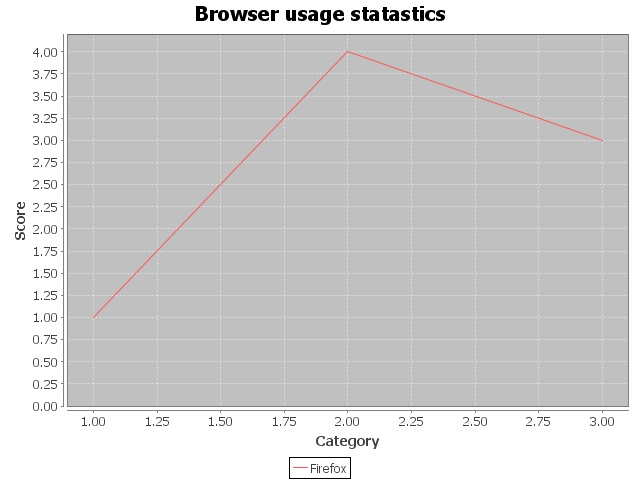
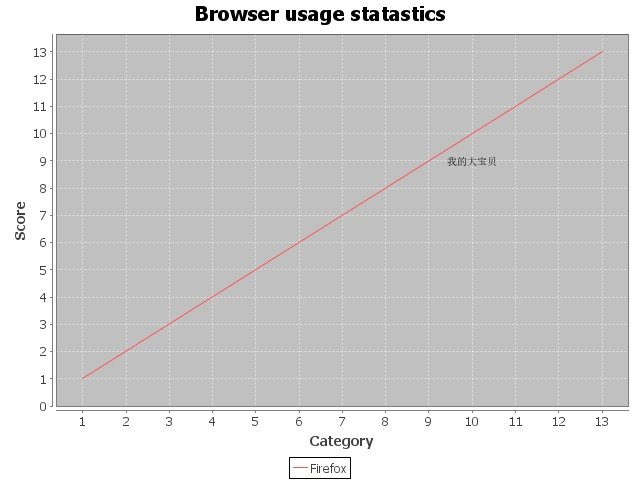
1.体温单

diff --git a/src/test/java/com/rhy/jfreechart/JfreeChartApplicationTests.java b/src/test/java/com/rhy/jfreechart/JfreeChartApplicationTests.java
@@ -3,6 +3,7 @@ package com.rhy.jfreechart;
 import org.jfree.chart.ChartFactory;
 import org.jfree.chart.ChartUtilities;
 import org.jfree.chart.JFreeChart;
+import org.jfree.chart.annotations.XYTextAnnotation;
 import org.jfree.chart.axis.CategoryAxis;
 import org.jfree.chart.axis.NumberAxis;
 import org.jfree.chart.labels.StandardCategoryItemLabelGenerator;
@@ -117,9 +118,9 @@ class JfreeChartApplicationTests {
         //添加第一个点 x轴位置，y轴位置
         firefox.add( 1.0 , 1.0 );
         //添加第二个点 x轴位置，y轴位置
-        firefox.add( 2.0 , 4.0 );
+        firefox.add( 10.0 , 10.0 );
         //添加第三个点 x轴位置，y轴位置
-        firefox.add( 3.0 , 3.0 );
+        firefox.add( 13.0 , 13.0 );
 //        XYSeries chrome = new XYSeries( "Chrome" );
 //        chrome.add( 1.0 , 4.0 );
 //        chrome.add( 2.0 , 5.0 );
@@ -142,6 +143,10 @@ class JfreeChartApplicationTests {
                 dataset,
                 PlotOrientation.VERTICAL,
                 true, true, false);
+        //创建一个文本注释
+        XYTextAnnotation anno = new XYTextAnnotation("我的大宝贝", 10, 9);
+        //画在图上
+        xylineChart.getXYPlot().addAnnotation(anno);
         //图片的宽度
         int width = 640; /* Width of the image */
         //图片的高度
@@ -152,5 +157,67 @@ class JfreeChartApplicationTests {
         ChartUtilities.saveChartAsJPEG( XYChart, xylineChart, width, height);
     }//原文出自【易百教程】，商业转载请联系作者获得授权，非商业请保留原文链接：https://www.yiibai.com/jfreechart/jfreechart_xy_chart.html
 
+    @Test
+    public void test2() throws IOException {
+        //画X轴线
+        XYSeriesCollection dataset = drawingXLine();
 
+        JFreeChart xylineChart = ChartFactory.createXYLineChart(
+                "",
+                "",
+                "",
+                dataset,
+                PlotOrientation.VERTICAL,
+                false, false, false);
+        //设置画板 以这个为框体开始画
+        setDrawingBoard(xylineChart);
+
+
+
+        //保存的图片位置
+        File XYChart = new File( System.getProperty("user.dir")+"\\img\\self.jpeg" );
+        //就是一个工具类  固定用法  将图片保存到本地
+        //图片的宽度
+        int width = 960; /* Width of the image */
+        //图片的高度
+        int height = 1280; /* Height of the image */
+        ChartUtilities.saveChartAsJPEG( XYChart, xylineChart, width, height);
+    }
+
+    /**
+     * 设置画板
+     * @param xylineChart
+     */
+    private void setDrawingBoard(JFreeChart xylineChart){
+        //获得轴对象
+        XYPlot xYPlot = (XYPlot) xylineChart.getPlot();
+        //获得Y轴轴线对象
+        NumberAxis rangeAxis = (NumberAxis) xYPlot.getRangeAxis();
+        //Y轴轴线不自动宽度
+        rangeAxis.setAutoRangeIncludesZero(false);
+        //Y轴轴线是否显示
+        rangeAxis.setAxisLineVisible(false);
+        //Y轴轴线刻度
+        rangeAxis.setRange(0,91);
+        //Y轴轴线刻度间距
+        rangeAxis.setTickUnit(NumberAxis.DEFAULT_TICK_UNIT);
+        //获得X轴轴线对象
+        NumberAxis domainAxis = (NumberAxis) xYPlot.getDomainAxis();
+        //X轴轴线不自动宽度
+        domainAxis.setAutoRangeIncludesZero(false);
+        //X轴轴线是否显示
+        domainAxis.setAxisLineVisible(false);
+        //X轴轴线刻度
+        domainAxis.setRange(0,51);
+        //X轴轴线刻度间距
+        domainAxis.setTickUnit(NumberAxis.DEFAULT_TICK_UNIT);
+    }
+
+    /**
+     * 画X轴线
+     * @param xylineChart
+     */
+    private XYSeriesCollection drawingXLine(){
+        return null;
+    }
 }
